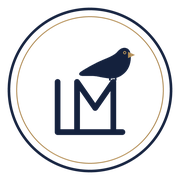
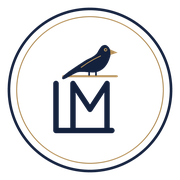
Nouveau dessin du merle, L et M superposés, oiseau centré dans le cercle

Changed region(s): [[0.2778, 0.25, 0.75, 0.75]]

diff --git a/index.html b/index.html
@@ -11,10 +11,10 @@
   <link rel="preconnect" href="https://fonts.googleapis.com">
   <link rel="preconnect" href="https://fonts.gstatic.com" crossorigin>
   <link href="https://fonts.googleapis.com/css2?family=Cormorant+Garamond:wght@500;600;700&family=Inter:wght@400;500;600&display=swap" rel="stylesheet">
-  <link rel="icon" type="image/svg+xml" href="images/logo-monogramme.svg?v=1792401388">
-  <link rel="icon" type="image/png" sizes="64x64" href="images/favicon-64.png">
-  <link rel="apple-touch-icon" href="images/apple-touch-icon.png">
-  <link rel="stylesheet" href="style.css?v=1792401388">
+  <link rel="icon" type="image/svg+xml" href="images/logo-monogramme.svg?v=1792402520">
+  <link rel="icon" type="image/png" sizes="64x64" href="images/favicon-64.png?v=1792402520">
+  <link rel="apple-touch-icon" href="images/apple-touch-icon.png?v=1792402520">
+  <link rel="stylesheet" href="style.css?v=1792402520">
   <script type="application/ld+json">
   {
     "@context": "https://schema.org",
@@ -36,7 +36,7 @@
 <body>
   <header class="site-header">
     <div class="wrap bar">
-      <a href="#accueil" class="brand"><img class="brand-logo" src="images/logo-monogramme.svg?v=1792401388" alt="" width="44" height="44"><div>Loïck Merle <span>Avocat à la Cour</span></div></a>
+      <a href="#accueil" class="brand"><img class="brand-logo" src="images/logo-monogramme.svg?v=1792402520" alt="" width="44" height="44"><div>Loïck Merle <span>Avocat à la Cour</span></div></a>
       <button class="burger" aria-label="Ouvrir le menu" aria-expanded="false" aria-controls="nav">☰</button>
       <nav id="nav" aria-label="Navigation principale">
         <a href="#apropos">Présentation</a>

diff --git a/mentions-legales.html b/mentions-legales.html
@@ -8,15 +8,15 @@
   <link rel="preconnect" href="https://fonts.googleapis.com">
   <link rel="preconnect" href="https://fonts.gstatic.com" crossorigin>
   <link href="https://fonts.googleapis.com/css2?family=Cormorant+Garamond:wght@500;600;700&family=Inter:wght@400;500;600&display=swap" rel="stylesheet">
-  <link rel="icon" type="image/svg+xml" href="images/logo-monogramme.svg">
-  <link rel="icon" type="image/png" sizes="64x64" href="images/favicon-64.png">
-  <link rel="apple-touch-icon" href="images/apple-touch-icon.png">
-  <link rel="stylesheet" href="style.css?v=1792401388">
+  <link rel="icon" type="image/svg+xml" href="images/logo-monogramme.svg?v=1792402520">
+  <link rel="icon" type="image/png" sizes="64x64" href="images/favicon-64.png?v=1792402520">
+  <link rel="apple-touch-icon" href="images/apple-touch-icon.png?v=1792402520">
+  <link rel="stylesheet" href="style.css?v=1792402520">
 </head>
 <body>
   <header class="site-header">
     <div class="wrap bar">
-      <a href="index.html" class="brand"><img class="brand-logo" src="images/logo-monogramme.svg" alt="" width="44" height="44"><div>Loïck Merle <span>Avocat à la Cour</span></div></a>
+      <a href="index.html" class="brand"><img class="brand-logo" src="images/logo-monogramme.svg?v=1792402520" alt="" width="44" height="44"><div>Loïck Merle <span>Avocat à la Cour</span></div></a>
       <nav><a href="index.html">← Retour au site</a></nav>
     </div>
   </header>
